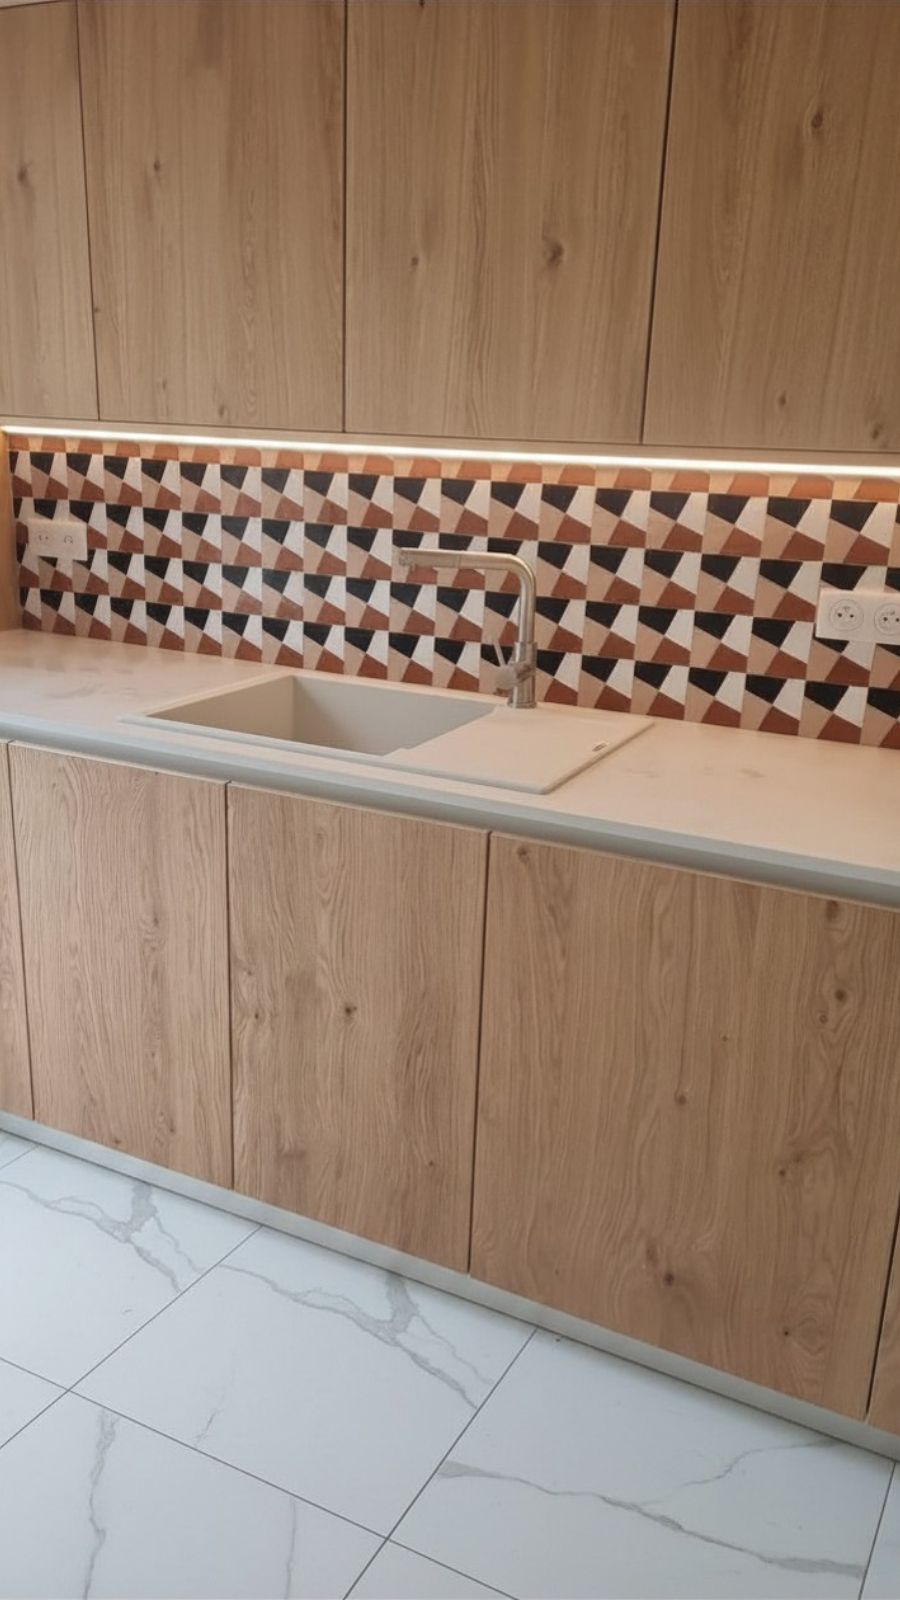
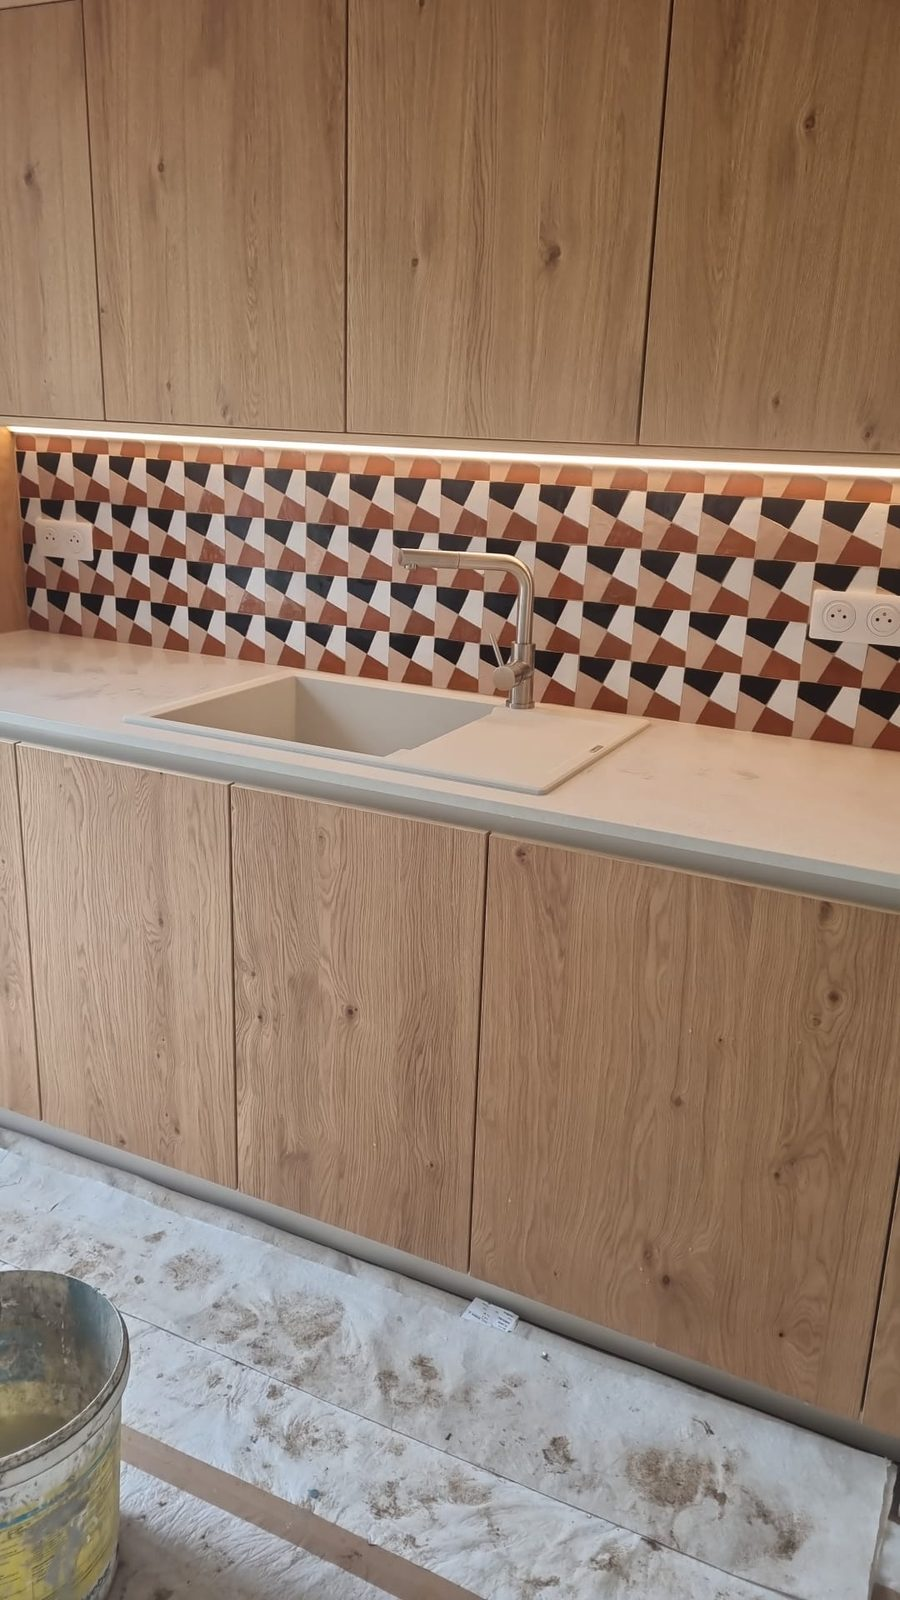
Add files via upload

diff --git a/index.html b/index.html
@@ -524,6 +524,58 @@
       h1{font-size:48px;}
       .name{font-size:30px;}
     }
+
+    /* Mode accueil / carte séparée */
+    .page {
+      min-height: calc(100vh - 48px);
+    }
+
+    body:not(.card-open) .details {
+      display: none;
+    }
+
+    body:not(.card-open) .page {
+      grid-template-columns: minmax(0, 720px);
+      justify-content: center;
+    }
+
+    body.card-open .landing {
+      display: none;
+    }
+
+    body.card-open .page {
+      grid-template-columns: minmax(0, 720px);
+      justify-content: center;
+    }
+
+    body.card-open .details {
+      display: block;
+    }
+
+    .enter {
+      width: 100%;
+      border: 0;
+      cursor: pointer;
+      font: inherit;
+    }
+
+    .back-home {
+      appearance: none;
+      border: 1px solid rgba(215,208,198,.92);
+      background: rgba(255,255,255,.72);
+      color: var(--blue2);
+      padding: 10px 14px;
+      border-radius: 999px;
+      font-weight: 700;
+      cursor: pointer;
+      margin-bottom: 18px;
+    }
+
+    .back-home:hover {
+      border-color: var(--blue);
+      color: var(--navy);
+    }
+
   </style>
 </head>
 <body>
@@ -544,15 +596,16 @@
           <img src="visuel-carte.png" alt="Réalisation carrelage et miroir rétroéclairé" />
         </figure>
 
-        <a class="enter" href="#contact">
+        <button class="enter" type="button" id="openCard">
           <span>Entrer sur la carte digitale</span>
           <span>→</span>
-        </a>
+        </button>
       </div>
 
     </section>
 
     <section id="contact" class="panel details" aria-label="Carte de visite digitale">
+      <button class="back-home" type="button" id="backHome">← Retour accueil</button>
       <div class="mini">
         <div class="mini-logo">
           <img src="logo.png" alt="SARL Adrien Costa Carrelage" />
@@ -590,5 +643,24 @@
       </a>
     </section>
   </main>
+
+  <script>
+    const openCardButton = document.getElementById('openCard');
+    const backHomeButton = document.getElementById('backHome');
+
+    function openCard() {
+      document.body.classList.add('card-open');
+      window.scrollTo({ top: 0, behavior: 'smooth' });
+    }
+
+    function backHome() {
+      document.body.classList.remove('card-open');
+      window.scrollTo({ top: 0, behavior: 'smooth' });
+    }
+
+    openCardButton?.addEventListener('click', openCard);
+    backHomeButton?.addEventListener('click', backHome);
+  </script>
+
 </body>
 </html>
